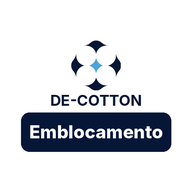
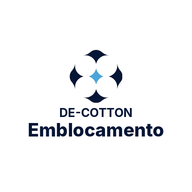
v1.10.4: ícone sem faixa, nome na cor DE-COTTON e tamanho padrão
Claude-Session: https://claude.ai/code/session_01Nmf84eCDdGJfLBLhLhZPr3

Changed region(s): [[0.0938, 0.1875, 0.9062, 0.8125], [0.3438, 0.2812, 0.4375, 0.4688]]

diff --git a/sw.js b/sw.js
@@ -1,5 +1,5 @@
 // Service worker: deixa o app e o leitor de códigos disponíveis sem internet
-const CACHE="emblocamento-v31";
+const CACHE="emblocamento-v32";
 const SHELL=["./","./index.html","./manifest.webmanifest","./icon-192.png","./icon-512.png","./icon-180.png","./logo.png"];
 const EXT=["https://cdn.jsdelivr.net/npm/zxing-wasm@2.2.4/dist/iife/reader/index.js","https://cdn.jsdelivr.net/npm/zxing-wasm@2.2.4/dist/reader/zxing_reader.wasm"];
 self.addEventListener("install",e=>{e.waitUntil((async()=>{const c=await caches.open(CACHE);await c.addAll(SHELL);

diff --git a/index.html b/index.html
@@ -95,7 +95,7 @@ main{padding:12px;max-width:640px;margin:0 auto;padding-bottom:40px}
 // Carrega o "pacote" gerado no app principal, confere cada fardinho lido
 // contra o lote do box, conta e devolve as leituras em arquivo.
 // ======================================================================
-const VER="1.10.3";
+const VER="1.10.4";
 const $=s=>document.querySelector(s);
 const esc=v=>String(v??"").replace(/[&<>"']/g,c=>({"&":"&amp;","<":"&lt;",">":"&gt;",'"':"&quot;","'":"&#39;"}[c]));
 const fmt=n=>n==null?"—":Number(n).toLocaleString("pt-BR");
